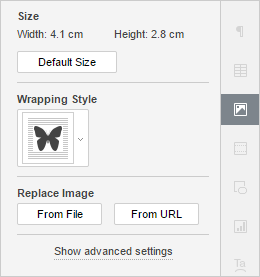
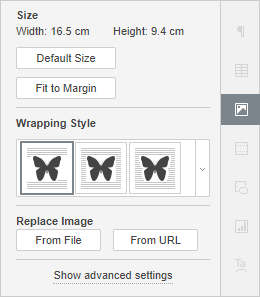
Update helps.

diff --git a/apps/presentationeditor/main/resources/help/ru/UsageInstructions/InsertText.htm b/apps/presentationeditor/main/resources/help/ru/UsageInstructions/InsertText.htm
@@ -17,7 +17,7 @@
 			        <li>Добавить фрагмент текста в любом месте на слайде. Можно вставить надпись (прямоугольную рамку, внутри которой вводится текст) или объект Text Art (текстовое поле с предварительно заданным стилем и цветом шрифта, позволяющее применять текстовые эффекты). В зависимости от требуемого типа текстового объекта можно сделать следующее:
 			                    <ul>
                                     <li>
-                                        чтобы добавить текстовое поле, щелкните по значку <img alt="Значок Текст" src="../images/inserttexticon.png" /> <b>Текст</b> на вкладке <b>Главная</b> или <b>Вставка</b> верхней панели инструментов, затем щелкните там, где требуется поместить надпись, удерживайте кнопку мыши и перетаскивайте границу текстового поля, чтобы задать его размер. Когда вы отпустите кнопку мыши, в добавленном текстовом поле появится курсор, и вы сможете ввести свой текст.
+                                        чтобы добавить текстовое поле, щелкните по значку <img alt="Значок Надпись" src="../images/inserttexticon.png" /> <b>Надпись</b> на вкладке <b>Главная</b> или <b>Вставка</b> верхней панели инструментов, затем щелкните там, где требуется поместить надпись, удерживайте кнопку мыши и перетаскивайте границу текстового поля, чтобы задать его размер. Когда вы отпустите кнопку мыши, в добавленном текстовом поле появится курсор, и вы сможете ввести свой текст.
                                         <p class="note"><b>Примечание</b>: надпись можно также вставить, если щелкнуть по значку <img alt="Значок Фигура" src="../images/insertautoshape.png" /> <b>Фигура</b> на верхней панели инструментов и выбрать фигуру <img alt="Автофигура Вставка текста" src="../images/text_autoshape.png" /> из группы <b>Основные фигуры</b>.</p>
                                     </li>
                                     <li>чтобы добавить объект Text Art, щелкните по значку <img alt="Значок Text Art" src="../images/inserttextarticon.png" /> <b>Text Art</b> на вкладке <b>Вставка</b> верхней панели инструментов, затем щелкните по нужному шаблону стиля – объект Text Art будет добавлен в центре слайда. Выделите мышью стандартный текст внутри текстового поля и напишите вместо него свой текст.</li>

diff --git a/apps/spreadsheeteditor/main/resources/help/ru/UsageInstructions/InsertTextObjects.htm b/apps/spreadsheeteditor/main/resources/help/ru/UsageInstructions/InsertTextObjects.htm
@@ -17,7 +17,7 @@
                 <li>перейдите на вкладку <b>Вставка</b> верхней панели инструментов,</li>
                 <li>выберите нужный тип текстового объекта:
                 <ul>
-                    <li>чтобы добавить текстовое поле, щелкните по значку <img alt="Значок Текст" src="../images/inserttexticon.png" /> <b>Текст</b> на верхней панели инструментов, затем щелкните там, где требуется поместить надпись, удерживайте кнопку мыши и перетаскивайте границу текстового поля, чтобы задать его размер. Когда вы отпустите кнопку мыши, в добавленном текстовом поле появится курсор, и вы сможете ввести свой текст.
+                    <li>чтобы добавить текстовое поле, щелкните по значку <img alt="Значок Надпись" src="../images/inserttexticon.png" /> <b>Надпись</b> на верхней панели инструментов, затем щелкните там, где требуется поместить надпись, удерживайте кнопку мыши и перетаскивайте границу текстового поля, чтобы задать его размер. Когда вы отпустите кнопку мыши, в добавленном текстовом поле появится курсор, и вы сможете ввести свой текст.
                         <p class="note"><b>Примечание</b>: надпись можно также вставить, если щелкнуть по значку <img alt="Значок Фигура" src="../images/insertautoshape.png" /> <b>Фигура</b> на верхней панели инструментов и выбрать фигуру <img alt="Автофигура Вставка текста" src="../images/text_autoshape.png" /> из группы <b>Основные фигуры</b>.</p>
                     </li>
                     <li>чтобы добавить объект Text Art, щелкните по значку <img alt="Значок Text Art" src="../images/inserttextarticon.png" /> <b>Text Art</b> на верхней панели инструментов, затем щелкните по нужному шаблону стиля – объект Text Art будет добавлен в центре рабочего листа. Выделите мышью стандартный текст внутри текстового поля и напишите вместо него свой текст.</li>

diff --git a/apps/documenteditor/main/resources/help/ru/UsageInstructions/InsertTextObjects.htm b/apps/documenteditor/main/resources/help/ru/UsageInstructions/InsertTextObjects.htm
@@ -17,7 +17,7 @@
                 <li>перейдите на вкладку <b>Вставка</b> верхней панели инструментов,</li>
                 <li>выберите нужный тип текстового объекта:
                 <ul>
-                    <li>чтобы добавить текстовое поле, щелкните по значку <img alt="Значок Текст" src="../images/inserttexticon.png" /> <b>Текст</b> на верхней панели инструментов, затем щелкните там, где требуется поместить надпись, удерживайте кнопку мыши и перетаскивайте границу текстового поля, чтобы задать его размер. Когда вы отпустите кнопку мыши, в добавленном текстовом поле появится курсор, и вы сможете ввести свой текст.
+                    <li>чтобы добавить текстовое поле, щелкните по значку <img alt="Значок Надпись" src="../images/inserttexticon.png" /> <b>Надпись</b> на верхней панели инструментов, затем щелкните там, где требуется поместить надпись, удерживайте кнопку мыши и перетаскивайте границу текстового поля, чтобы задать его размер. Когда вы отпустите кнопку мыши, в добавленном текстовом поле появится курсор, и вы сможете ввести свой текст.
                     <p class="note"><b>Примечание</b>: надпись можно также вставить, если щелкнуть по значку <img alt="Значок Фигура" src="../images/insertautoshape.png" /> <b>Фигура</b> на верхней панели инструментов и выбрать фигуру <img alt="Автофигура Вставка текста" src="../images/text_autoshape.png" /> из группы <b>Основные фигуры</b>.</p>
                     </li>
                     <li>чтобы добавить объект Text Art, щелкните по значку <img alt="Значок Text Art" src="../images/inserttextarticon.png" /> <b>Text Art</b>, затем щелкните по нужному шаблону стиля – объект Text Art будет добавлен в текущей позиции курсора. Выделите мышью стандартный текст внутри текстового поля и напишите вместо него свой текст.</li>

diff --git a/apps/documenteditor/main/resources/help/ru/UsageInstructions/InsertImages.htm b/apps/documenteditor/main/resources/help/ru/UsageInstructions/InsertImages.htm
@@ -34,7 +34,7 @@
 			<p><img class="floatleft" alt="Вкладка Параметры изображения" src="../images/right_image.png" />
 			<p>Некоторые параметры изображения можно изменить с помощью вкладки <b>Параметры изображения</b> на правой боковой панели. Чтобы ее активировать, щелкните по изображению и выберите значок <b>Параметры изображения</b> <img alt="Значок Параметры изображения" src="../images/image_settings_icon.png" /> справа. Здесь можно изменить следующие свойства:</p>
 			<ul style="margin-left: 280px;">
-				<li><b>Размер</b> - используется, чтобы просмотреть текущую <b>Ширину</b> и <b>Высоту</b> изображения или при необходимости восстановить размер изображения <b>По умолчанию</b>.</li>
+				<li><b>Размер</b> - используется, чтобы просмотреть текущую <b>Ширину</b> и <b>Высоту</b> изображения. При необходимости можно восстановить размер изображения по умолчанию, нажав кнопку <b>По умолчанию</b>. Кнопка <b>Вписать</b> позволяет изменить размер изображения таким образом, чтобы оно занимало все пространство между левым и правым полями страницы.</li>
 				<li><b>Стиль обтекания</b> - используется, чтобы выбрать один из доступных стилей обтекания текстом - в тексте, вокруг рамки, по контуру, сквозное, сверху и снизу, перед текстом, за текстом (для получения дополнительной информации смотрите описание дополнительных параметров ниже).</li>
 				<li><b>Заменить изображение</b> - используется, чтобы заменить текущее изображение, загрузив другое из файла или по URL.</li>
 			</ul>			

diff --git a/apps/presentationeditor/main/resources/help/en/UsageInstructions/InsertText.htm b/apps/presentationeditor/main/resources/help/en/UsageInstructions/InsertText.htm
@@ -17,7 +17,7 @@
 			        <li>Add a text passage anywhere on a slide. You can insert a text box (a rectangular frame that allows to enter text within it) or a Text Art object (a text box with a predefined font style and color that allows to apply some text effects). Depending on the necessary text object type you can do the following:
 			                    <ul>
                                     <li>
-                                        to add a text box, click the <img alt="Text icon" src="../images/inserttexticon.png" /> <b>Text</b> icon at the <b>Home</b> or <b>Insert</b> tab of the top toolbar, then click where you want to insert the text box, hold the mouse button and drag the text box border to specify its size. When you release the mouse button, the insertion point will appear in the added text box, allowing you to enter your text.
+                                        to add a text box, click the <img alt="Text Box icon" src="../images/inserttexticon.png" /> <b>Text Box</b> icon at the <b>Home</b> or <b>Insert</b> tab of the top toolbar, then click where you want to insert the text box, hold the mouse button and drag the text box border to specify its size. When you release the mouse button, the insertion point will appear in the added text box, allowing you to enter your text.
                                         <p class="note"><b>Note</b>: it's also possible to insert a text box by clicking the <img alt="Shape icon" src="../images/insertautoshape.png" /> <b>Shape</b> icon at the top toolbar and selecting the <img alt="Insert Text autoshape" src="../images/text_autoshape.png" /> shape from the <b>Basic Shapes</b> group.</p>
                                     </li>
                                     <li>to add a Text Art object, click the <img alt="Text Art icon" src="../images/inserttextarticon.png" /> <b>Text Art</b> icon at the <b>Insert</b> tab of the top toolbar, then click on the desired style template – the Text Art object will be added in the center of the slide. Select the default text within the text box with the mouse and replace it with your own text.</li>

diff --git a/apps/spreadsheeteditor/main/resources/help/en/UsageInstructions/InsertTextObjects.htm b/apps/spreadsheeteditor/main/resources/help/en/UsageInstructions/InsertTextObjects.htm
@@ -17,7 +17,7 @@
                 <li>switch to the <b>Insert</b> tab of the top toolbar,</li>
                 <li>select the necessary text object type:
                 <ul>
-                    <li>to add a text box, click the <img alt="Text icon" src="../images/inserttexticon.png" /> <b>Text</b> icon at the top toolbar, then click where you want to insert the text box, hold the mouse button and drag the text box border to specify its size. When you release the mouse button, the insertion point will appear in the added text box, allowing you to enter your text.
+                    <li>to add a text box, click the <img alt="Text Box icon" src="../images/inserttexticon.png" /> <b>Text Box</b> icon at the top toolbar, then click where you want to insert the text box, hold the mouse button and drag the text box border to specify its size. When you release the mouse button, the insertion point will appear in the added text box, allowing you to enter your text.
                         <p class="note"><b>Note</b>: it's also possible to insert a text box by clicking the <img alt="Shape icon" src="../images/insertautoshape.png" /> <b>Shape</b> icon at the top toolbar and selecting the <img alt="Insert Text autoshape" src="../images/text_autoshape.png" /> shape from the <b>Basic Shapes</b> group.</p>
                     </li>
                     <li>to add a Text Art object, click the <img alt="Text Art icon" src="../images/inserttextarticon.png" /> <b>Text Art</b> icon at the top toolbar, then click on the desired style template – the Text Art object will be added in the center of the worksheet. Select the default text within the text box with the mouse and replace it with your own text.</li>

diff --git a/apps/documenteditor/main/resources/help/en/UsageInstructions/InsertTextObjects.htm b/apps/documenteditor/main/resources/help/en/UsageInstructions/InsertTextObjects.htm
@@ -17,7 +17,7 @@
                 <li>switch to the <b>Insert</b> tab of the top toolbar,</li>
                 <li>select the necessary text object type:
                 <ul>
-                    <li>to add a text box, click the <img alt="Text icon" src="../images/inserttexticon.png" /> <b>Text</b> icon at the top toolbar, then click where you want to insert the text box, hold the mouse button and drag the text box border to specify its size. When you release the mouse button, the insertion point will appear in the added text box, allowing you to enter your text.
+                    <li>to add a text box, click the <img alt="Text Box icon" src="../images/inserttexticon.png" /> <b>Text Box</b> icon at the top toolbar, then click where you want to insert the text box, hold the mouse button and drag the text box border to specify its size. When you release the mouse button, the insertion point will appear in the added text box, allowing you to enter your text.
                     <p class="note"><b>Note</b>: it's also possible to insert a text box by clicking the <img alt="Shape icon" src="../images/insertautoshape.png" /> <b>Shape</b> icon at the top toolbar and selecting the <img alt="Insert Text autoshape" src="../images/text_autoshape.png" /> shape from the <b>Basic Shapes</b> group.</p>
                     </li>
                     <li>to add a Text Art object, click the <img alt="Text Art icon" src="../images/inserttextarticon.png" /> <b>Text Art</b> icon at the top toolbar, then click on the desired style template – the Text Art object will be added at the current cursor position. Select the default text within the text box with the mouse and replace it with your own text.</li>

diff --git a/apps/documenteditor/main/resources/help/en/UsageInstructions/InsertImages.htm b/apps/documenteditor/main/resources/help/en/UsageInstructions/InsertImages.htm
@@ -33,7 +33,7 @@
             <h3>Adjust image settings</h3>
 			<p><img class="floatleft" alt="Image Settings tab" src="../images/right_image.png" />Some of the image settings can be altered using the <b>Image settings</b> tab of the right sidebar. To activate it click the image and choose the <b>Image settings</b> <img alt="Image settings icon" src="../images/image_settings_icon.png" /> icon on the right. Here you can change the following properties:</p>
 			<ul style="margin-left: 280px;">
-				<li><b>Size</b> is used to view the current image <b>Width</b> and <b>Height</b> or restore the image <b>Default Size</b> if necessary.</li>
+				<li><b>Size</b> is used to view the current image <b>Width</b> and <b>Height</b>. If necessary, you can restore the default image size clicking the <b>Default Size</b> button. The <b>Fit to Margin</b> button allows to resize the image, so that it occupies all the space between the left and right page margin.</li>
 				<li><b>Wrapping Style</b> is used to select a text wrapping style from the available ones - inline, square, tight, through, top and bottom, in front, behind (for more information see the advanced settings description below).</li>
 				<li><b>Replace Image</b> is used to replace the current image loading another one from file or URL.</li>
 			</ul>			
